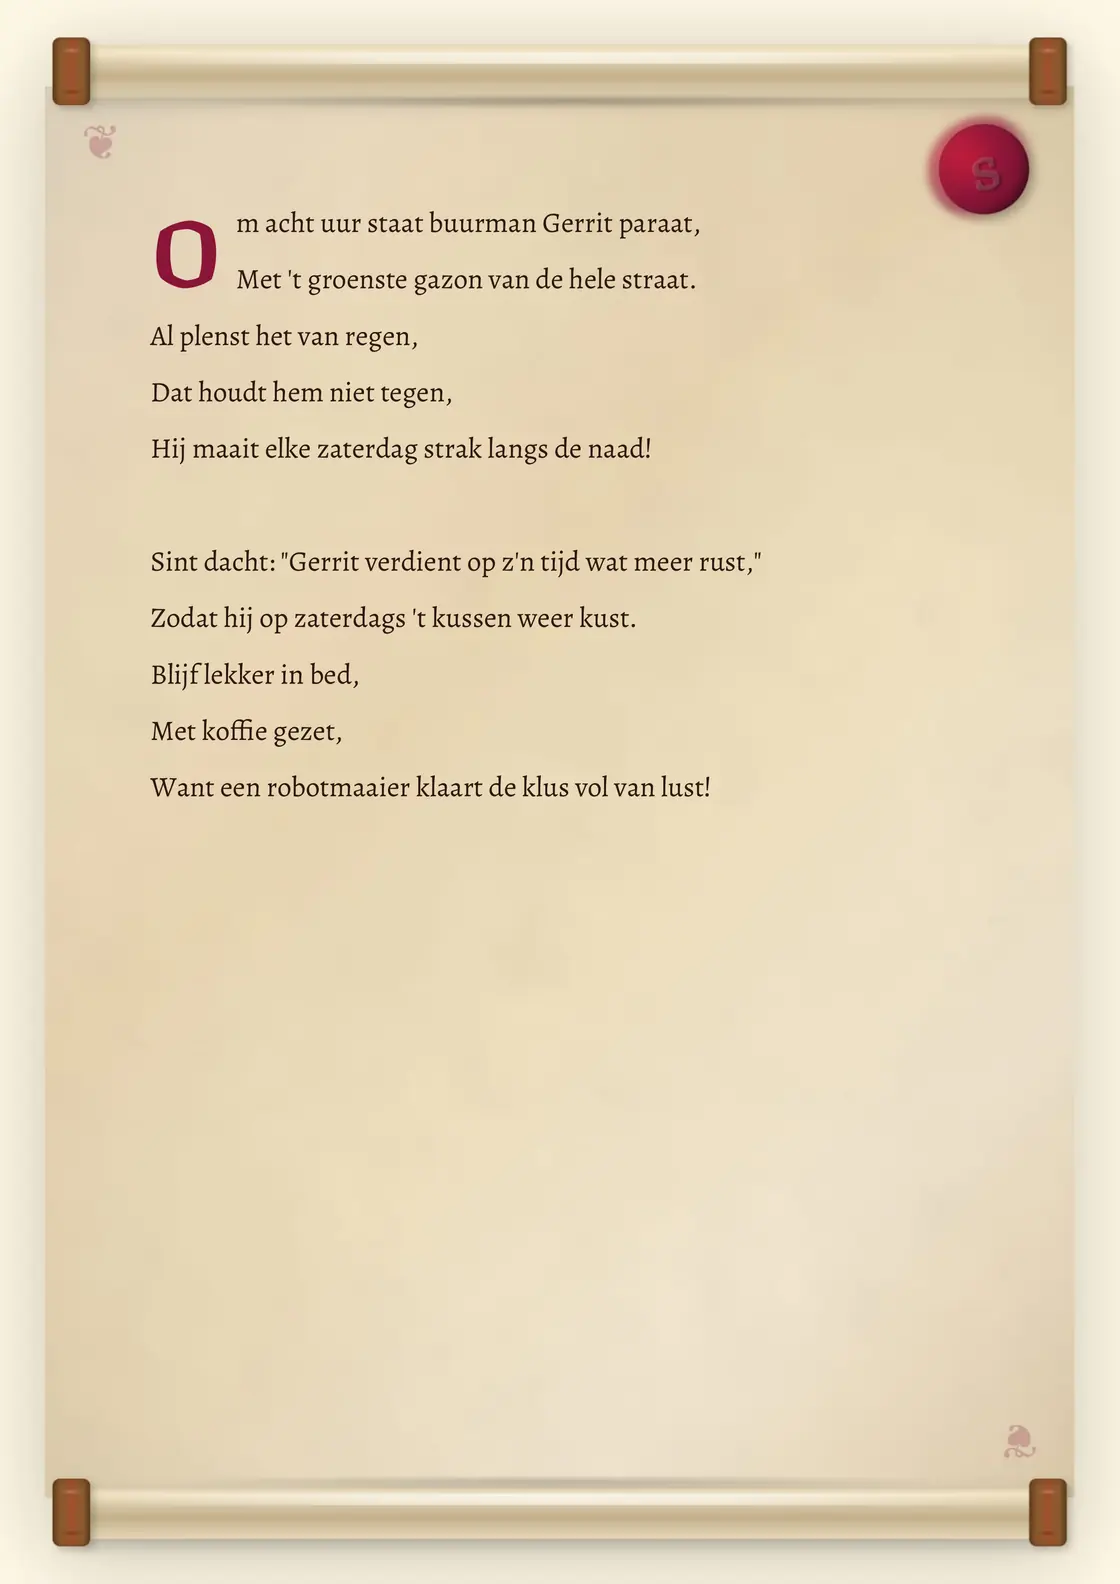
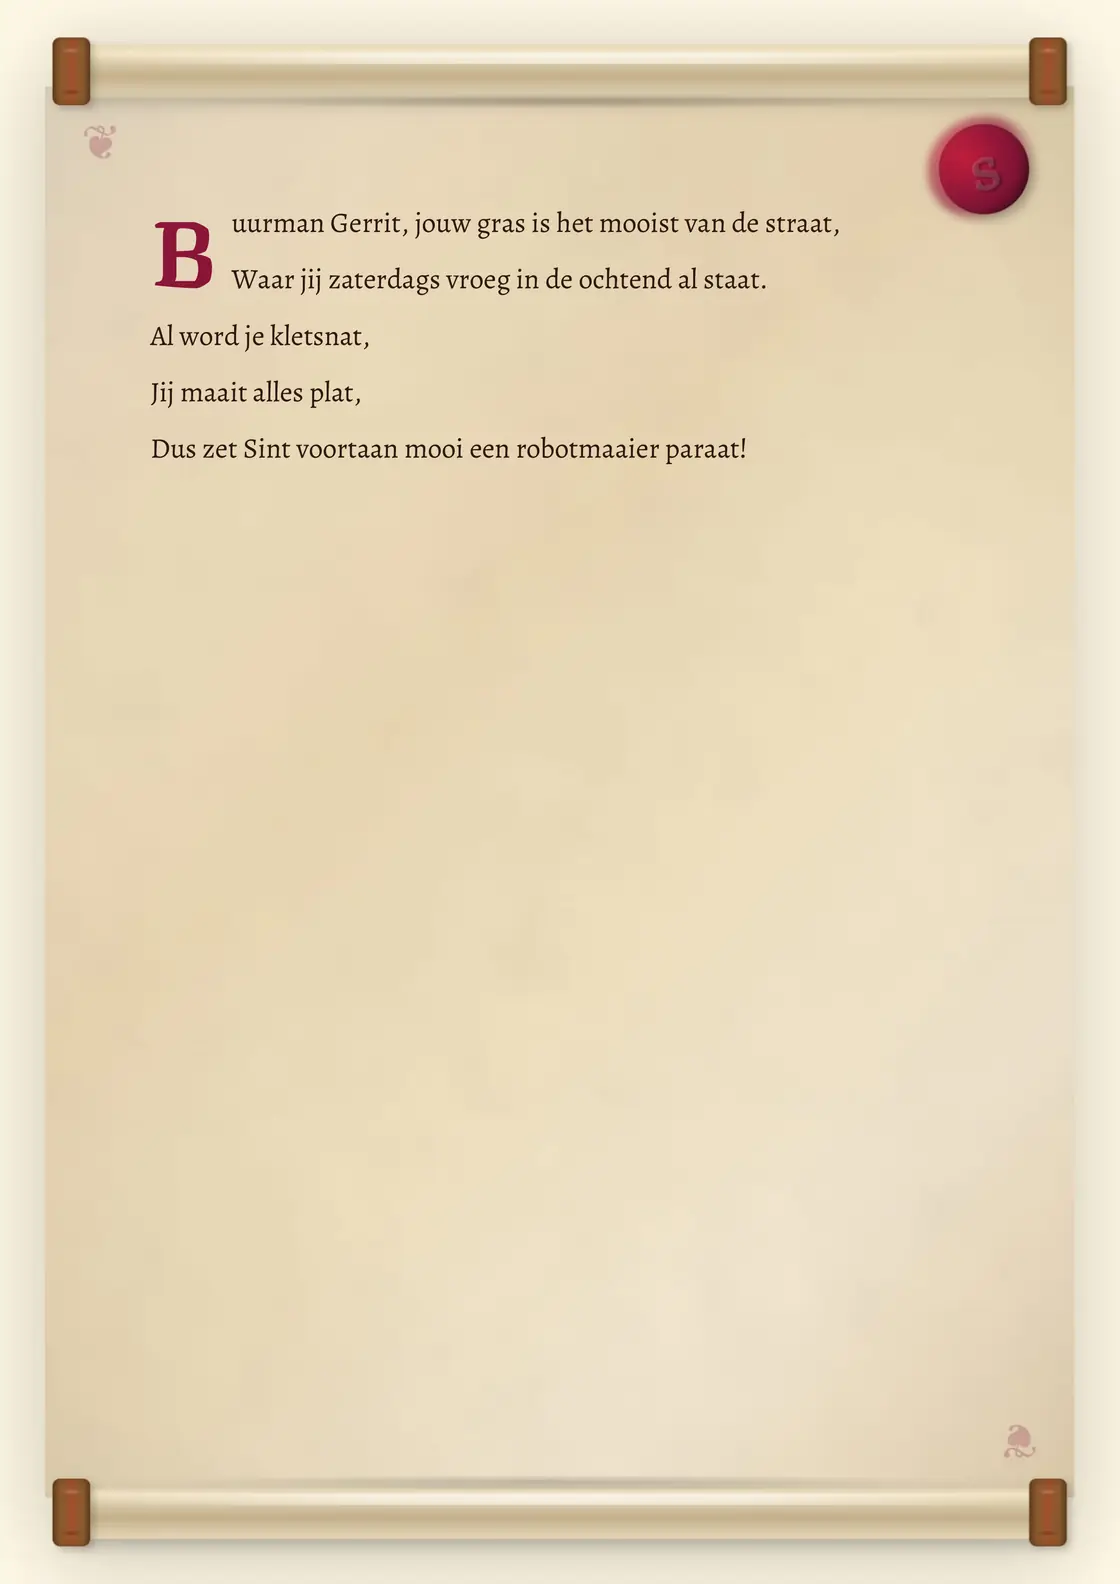
Example poems: Buurman Gerrit as a limerick of 5 lines, sheet rebuilt

diff --git a/utils/examplePoems.ts b/utils/examplePoems.ts
@@ -198,20 +198,14 @@ en proef me vanavond maar weer lekker thuis.`,
       funFacts: 'Maait zijn gras elke zaterdag om acht uur, ook als het regent. Zijn gazon is het mooiste van de straat.',
       style: 'funny',
       rhymeScheme: 'Limerick',
-      lines: 10,
+      lines: 5,
       language: 'dutch',
     },
-    poem: `Om acht uur staat buurman Gerrit paraat,
-Met 't groenste gazon van de hele straat.
-Al plenst het van regen,
-Dat houdt hem niet tegen,
-Hij maait elke zaterdag strak langs de naad!
-
-Sint dacht: "Gerrit verdient op z'n tijd wat meer rust,"
-Zodat hij op zaterdags 't kussen weer kust.
-Blijf lekker in bed,
-Met koffie gezet,
-Want een robotmaaier klaart de klus vol van lust!`,
+    poem: `Buurman Gerrit, jouw gras is het mooist van de straat,
+Waar jij zaterdags vroeg in de ochtend al staat.
+Al word je kletsnat,
+Jij maait alles plat,
+Dus zet Sint voortaan mooi een robotmaaier paraat!`,
   },
   {
     id: 'sem',

diff --git a/tests/unit/persuasion.test.ts b/tests/unit/persuasion.test.ts
@@ -121,7 +121,10 @@ describe('example poems', () => {
     expect([...styles].sort()).toEqual(['classic', 'funny', 'ironic', 'old-fashioned', 'roast', 'spicy']);
     for (const example of EXAMPLE_POEMS) {
       expect(PoemRequestSchema.safeParse(example.request).success, example.id).toBe(true);
-      expect(example.poem.split('\n').filter(Boolean).length, example.id).toBeGreaterThanOrEqual(8);
+      const verses = example.poem.split('\n').filter(Boolean).length;
+      // A limerick is always 5 lines (LIMERICK_LINES); other poems at least 8.
+      if (example.request.rhymeScheme === 'Limerick') expect(verses, example.id).toBe(5);
+      else expect(verses, example.id).toBeGreaterThanOrEqual(8);
     }
   });
 
